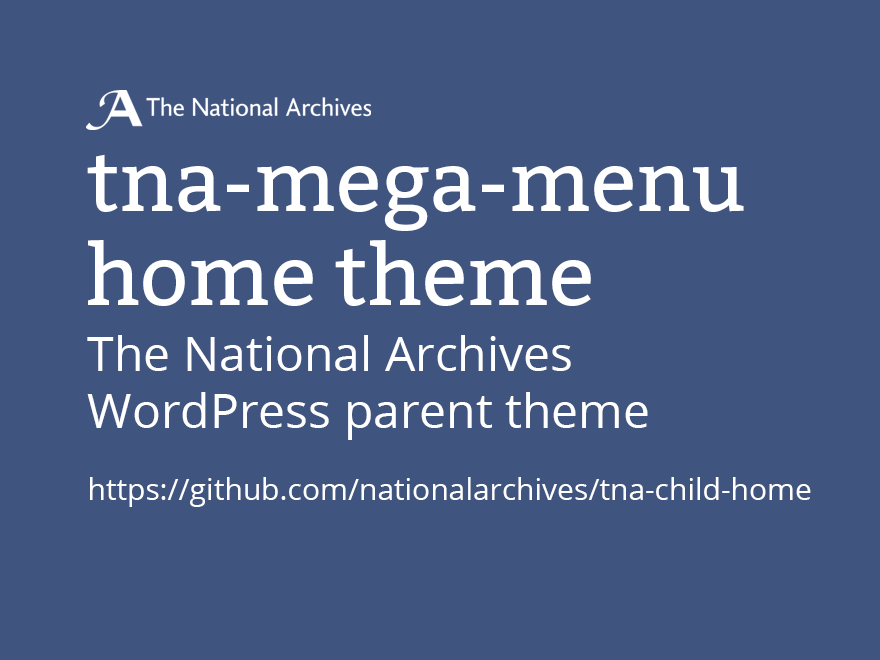
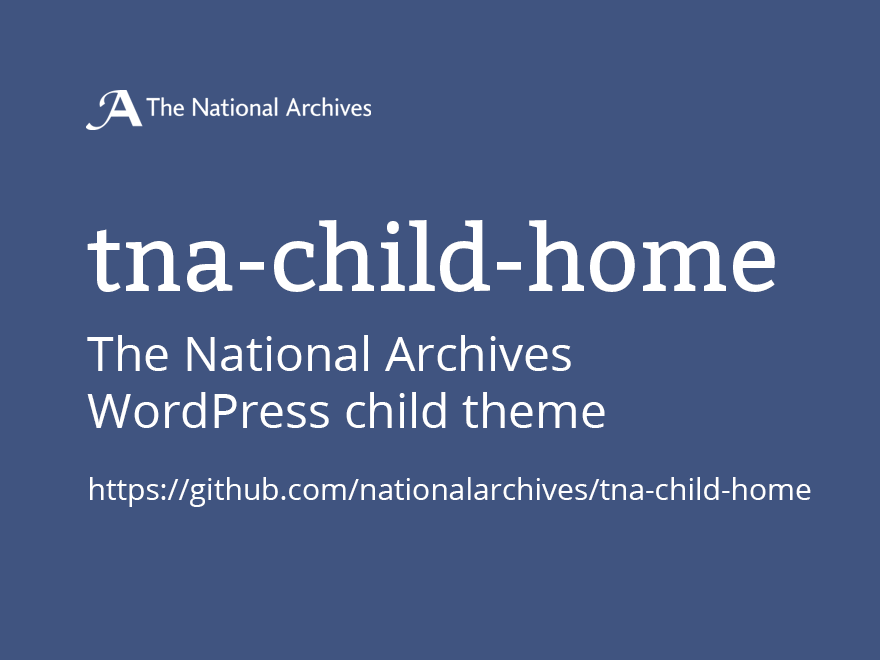
home functions and template files

Changed region(s): [[0.092, 0.2424, 0.8898, 0.4848], [0.3989, 0.6061, 0.7364, 0.6667]]

diff --git a/functions-home.php b/functions-home.php
@@ -1,0 +1,18 @@
+<?php
+/**
+ * Homepage functions
+ */
+
+add_action( 'admin_init', 'hide_editor_from_homepage' );
+
+function hide_editor_from_homepage() {
+	// Get the Post ID.
+	$post_id = $_GET['post'] ? $_GET['post'] : $_POST['post_ID'] ;
+	if( !isset( $post_id ) ) return;
+
+	$template_file = get_post_meta($post_id, '_wp_page_template', true);
+
+	if($template_file == 'page-home.php') {
+		remove_post_type_support('page', 'editor');
+	}
+}

diff --git a/page-home.php b/page-home.php
@@ -1,0 +1,24 @@
+<?php
+/*
+Template Name: Homepage
+*/
+get_header(); ?>
+
+<main id="primary" role="main" class="content-area">
+	<div class="container">
+		<div class="row">
+			<div class="col-md-12">
+				<article>
+					<div class="entry-header">
+						<h1><?php the_title(); ?></h1>
+					</div>
+					<div class="entry-content">
+
+					</div>
+				</article>
+			</div>
+		</div>
+	</div>
+</main>
+
+<?php get_footer(); ?>
